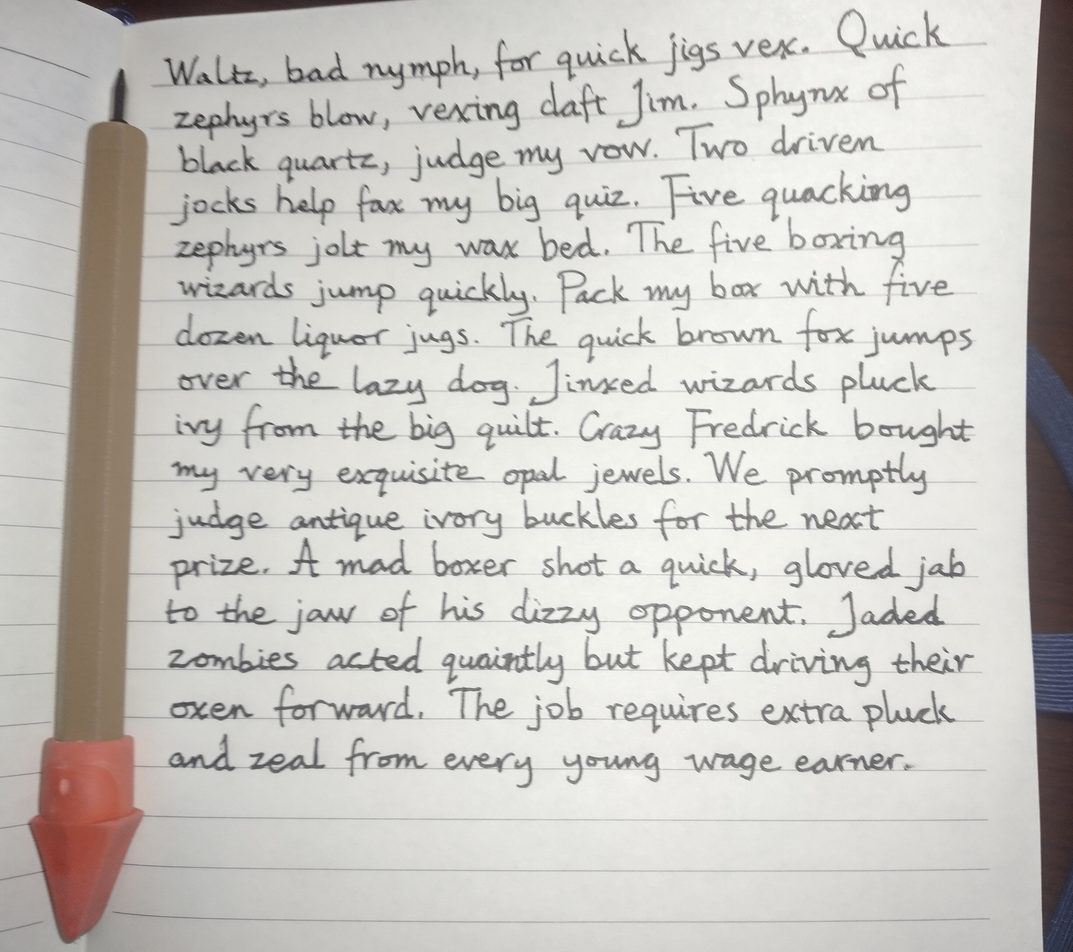
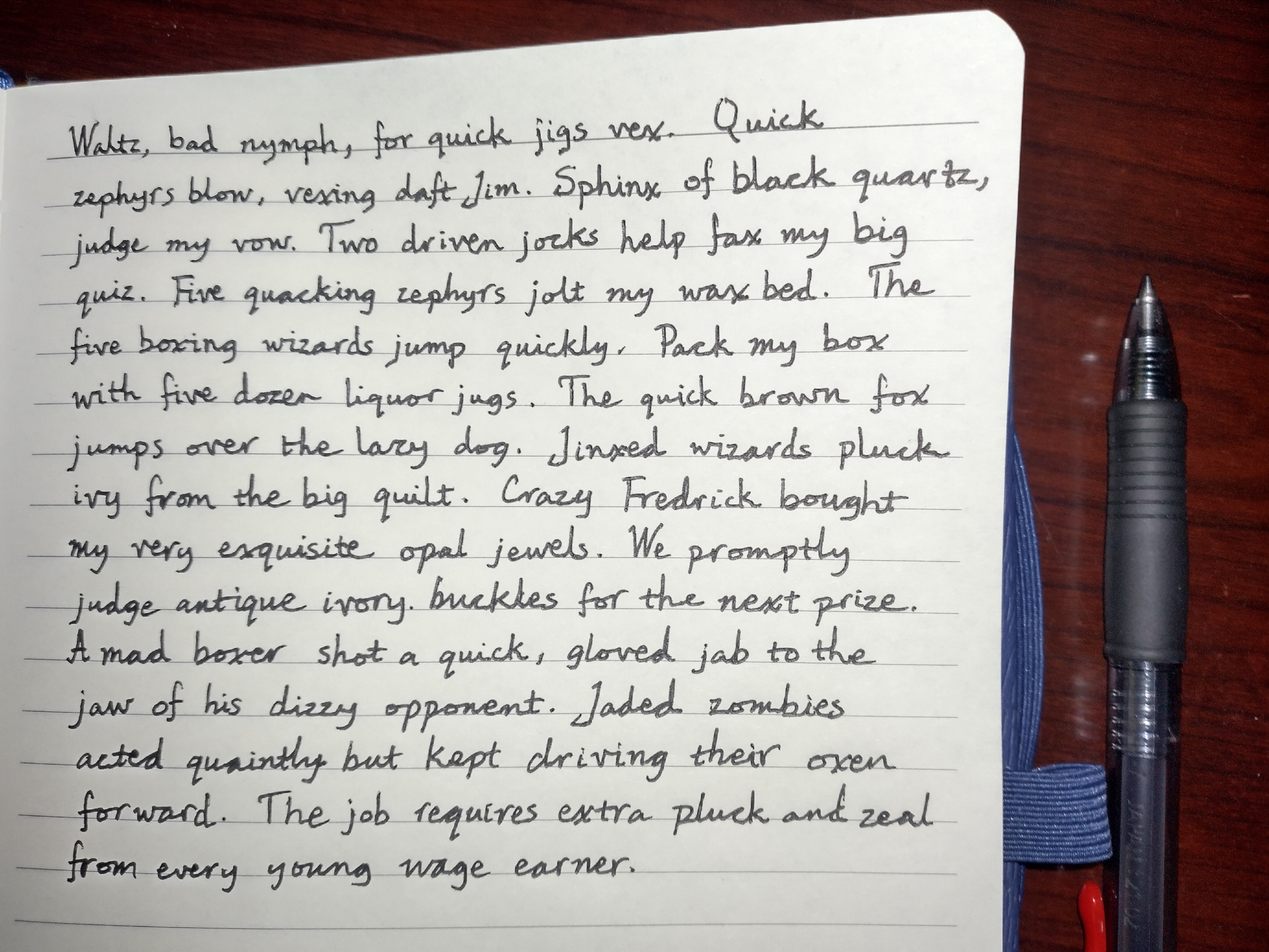
Revised script

diff --git a/docs/_posts/2023-11-03-jeremy-a-sharp-semicursive-script.md b/docs/_posts/2023-11-03-jeremy-a-sharp-semicursive-script.md
@@ -1,38 +1,23 @@
 ---
 layout: post
-title: Jeremy - A Sharp Semicursive Script
+title: Jérémesque - A New Semicursive Script
 author: Jeremy Reeder
 date: 2023-11-03
-tags: font script writing handwriting penmanship typeface palmer
-redirect_from: /handwriting
+tags: font script writing handwriting penmanship typeface
+redirect_from:
+  - /handwriting
+  - /2023/11/03/jeremy-a-sharp-semicursive-script
 ---
 
 Discarding everything about how penmanship was taught to me as a child, I've
-designed a new and improved handwriting script! I call it 'Jeremy'. Compare
-this new semi-cursive script on the right to its Palmer-style predecessor on
-the left.
+designed a new and improved handwriting script. It's more pointy and less
+swoopy. I call it *Jérémesque*!
 
 <div class="gallery" markdown="1">
 ![The way they taught me in school.][school-pangrams]
 ![How I'm doin' it now.][jeremy-pangrams]
 *Before and After*
 </div>
-
-Its rules are thus. The conventions of the Getty-Dubay Italic script are followed, with the following stylistic and clarifying changes:
-  1. The capital letters 'F' and 'P' descend below the baseline just as their lowercase counterparts do.
-  2. When a letter has a downward initial stroke followed later by a rightward stroke from the top of that initial one, the initial serif is done as part of the rightward stroke. This affects the following letters: B, E, F, P/p, and R.
-  3. Serifs on letters are always straight, not distastefully curved.
-  4. Serifs are always horizontal, except where done as part of a letter's downward initial stroke. In those cases, a diagonal initial serif is balanced by a diagonal terminal serif.
-  5. The capital 'J' starts and ends with diagonal serifs facing each other, and the horizontal topper is omitted.
-  6. To avoid having to lift the pen, any lowercase letter may generally be connected to a letter which immediately precedes it if the second starts at or slightly above the end of the first and can be reached with a short connection line. But such connections don't apply when:
-     - The first letter is 'r'.
-     - The first letter ends below the baseline.
-     - The connection would be diagonal from an 's', or to or from a 'z'.
-     - It requires such retracing as to make it difficult to avoid a loop or double line where a single vertical line is called for.
-  7. The transition from a connection to the first stroke of a letter is done abruptly, not through flowy curvature.
-  8. The number 0 is written as a capital 'O' with a slash through it. The slash does not extend outside of the ellipse.
-  9. The number 1 starts with a small curved serif which leads to a very pointed tip.
-  10. The horizontal line of the number 4 extends only minimally beyond the downward stroke.
 
 I like it. I find it to be nice-looking without silly frills, and to be easier
 to read than the cursive script that I was originally taught without being any
